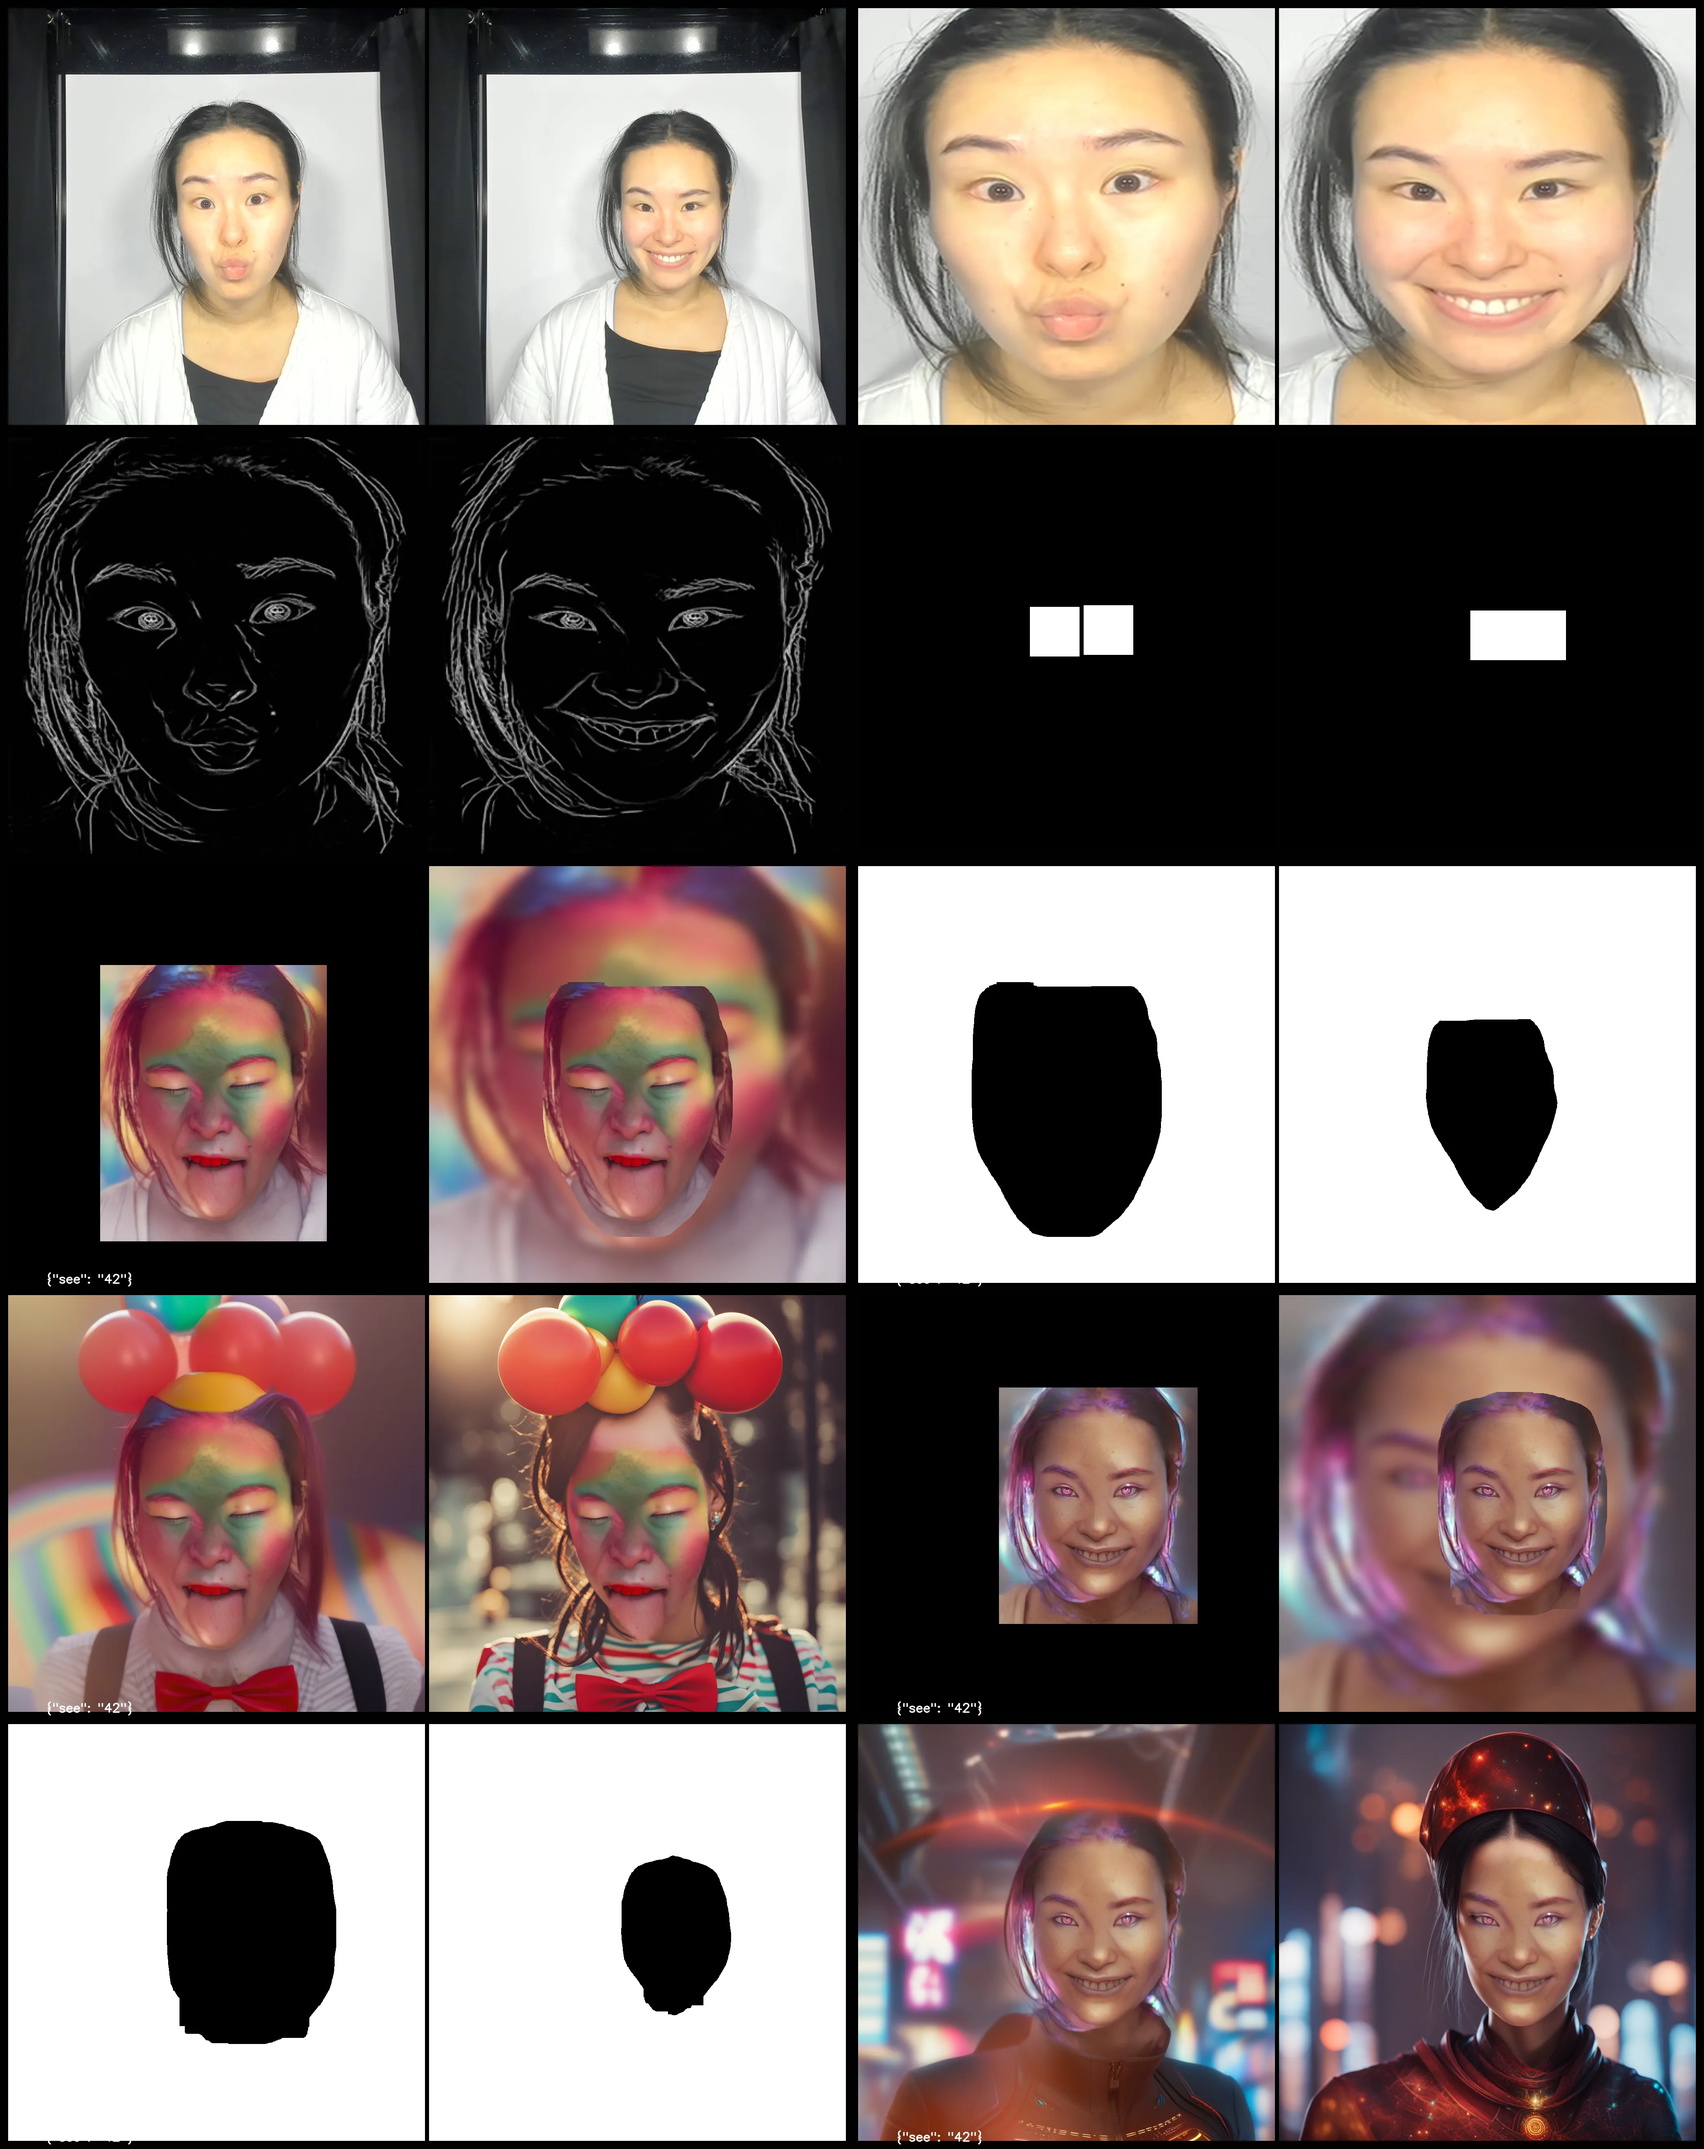
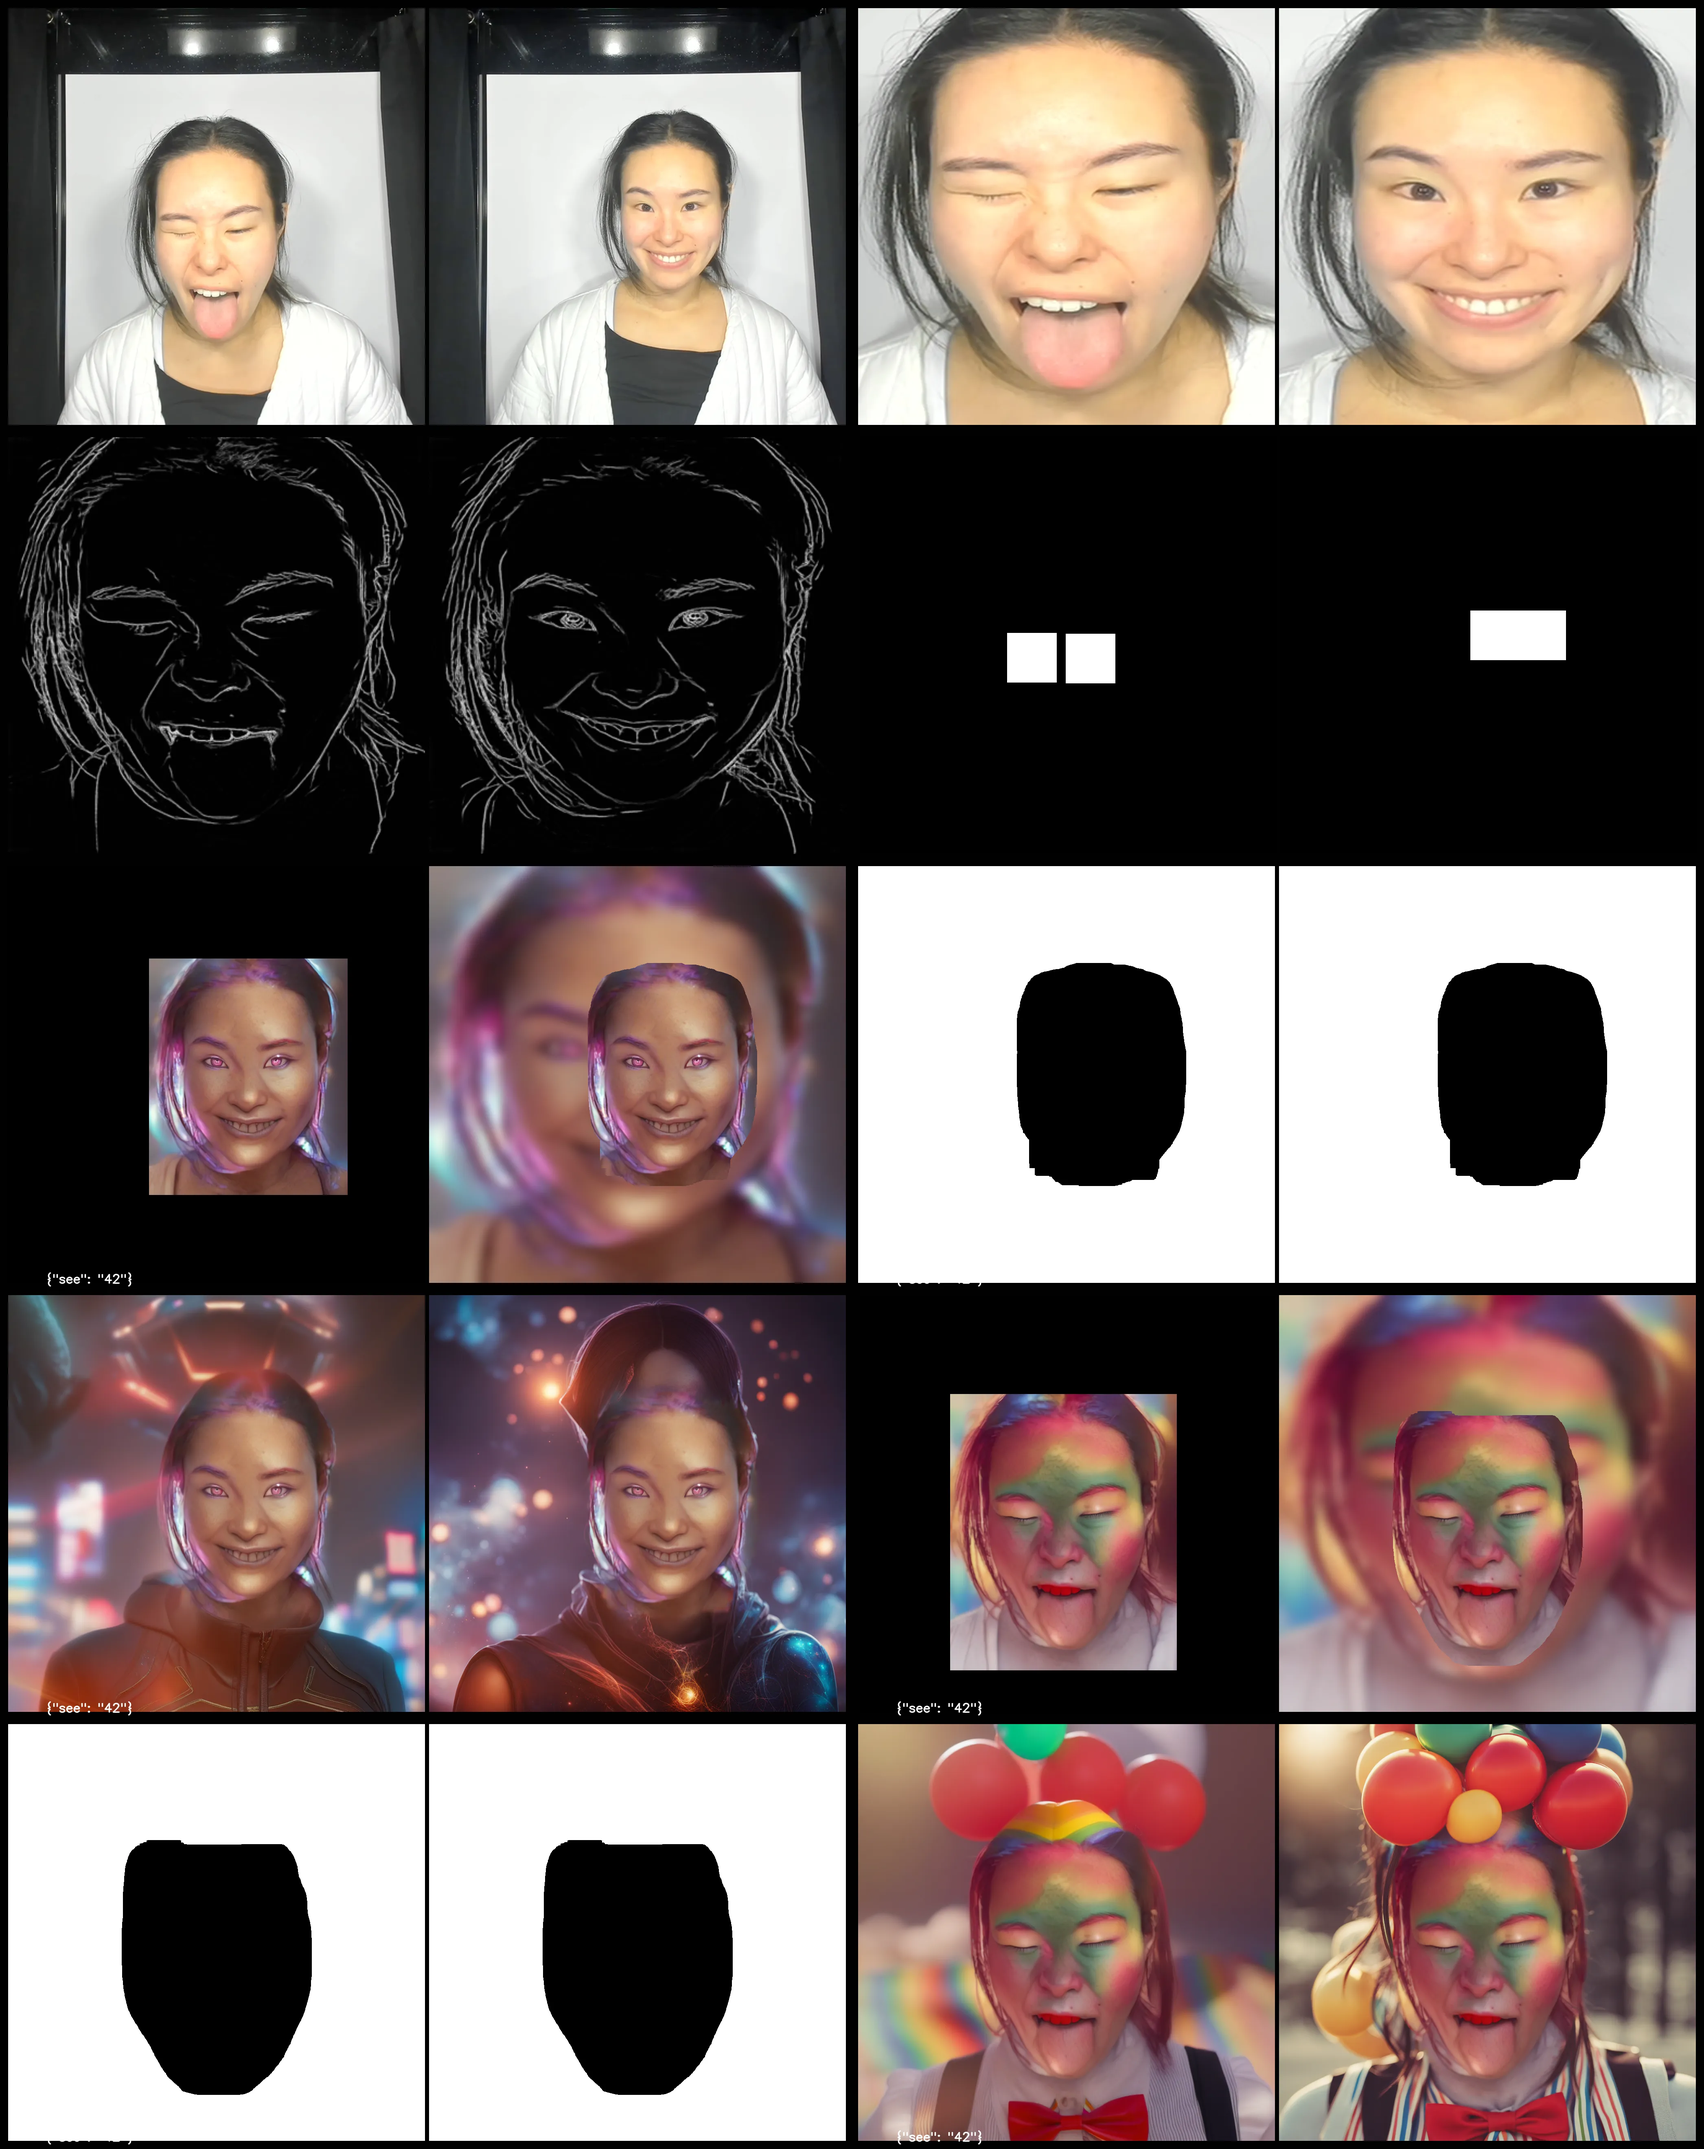
better masks.

diff --git a/one_shot/dreambooth/model.py b/one_shot/dreambooth/model.py
@@ -22,7 +22,7 @@ from one_shot.params import Params, Settings
 from one_shot.prompt import Compels, Prompts
 from one_shot.utils import (
     civitai_path,
-    dilate_mask,
+    erode_mask,
     exclude,
 )
 
@@ -41,7 +41,8 @@ class SharedModels:
 @dataclass
 class ProcessModels:
     pipe: StableDiffusionXLAdapterPipeline
-    refiner: StableDiffusionXLInpaintPipeline
+    face_refiner: StableDiffusionXLAdapterPipeline
+    bg_refiner: StableDiffusionXLInpaintPipeline
     inpainter: StableDiffusionXLInpaintPipeline
     compels: Compels
     face: FaceHelperModels
@@ -85,6 +86,16 @@ class ProcessModels:
         pipe.enable_xformers_memory_efficient_attention()
         cls._load_loras(params, pipe)
 
+        face_refiner = StableDiffusionXLAdapterPipeline.from_pretrained(
+            params.model.refiner,
+            text_encoder_2=pipe.text_encoder_2,
+            vae=pipe.vae,
+            adapter=pipe.adapter,
+            scheduler=pipe.scheduler,
+            **cls.settings.loading_kwargs,
+        ).to(rank)
+        face_refiner.enable_xformers_memory_efficient_attention()
+
         inpainter = StableDiffusionXLInpaintPipeline.from_pretrained(
             params.model.inpainter,
             text_encoder=pipe.text_encoder,
@@ -96,14 +107,14 @@ class ProcessModels:
         inpainter.enable_xformers_memory_efficient_attention()
         cls._load_loras(params, inpainter, key="inpainter")
 
-        refiner = StableDiffusionXLInpaintPipeline.from_pretrained(
+        bg_refiner = StableDiffusionXLInpaintPipeline.from_pretrained(
             params.model.refiner,
             text_encoder_2=pipe.text_encoder_2,
             vae=pipe.vae,
             scheduler=pipe.scheduler,
             **cls.settings.loading_kwargs,
         ).to(rank)
-        refiner.enable_xformers_memory_efficient_attention()
+        bg_refiner.enable_xformers_memory_efficient_attention()
 
         xl_compel = Compel(
             [pipe.tokenizer, pipe.tokenizer_2],
@@ -131,7 +142,8 @@ class ProcessModels:
         )
         return cls(
             pipe=pipe,
-            refiner=refiner,
+            face_refiner=face_refiner,
+            bg_refiner=bg_refiner,
             inpainter=inpainter,
             compels=Compels(
                 xl=xl_compel, refiner=refiner_compel, inpainter=inpainter_compel
@@ -231,11 +243,9 @@ class Model:
                 self.logger.warning("Using face mask")
                 mask = ~face.mask.arr
                 masks.append(to_pil_image(mask, mode="RGB").convert("L"))
-                og_masks.append(
-                    to_pil_image(
-                        dilate_mask(~face.raw_mask.arr, strong=True), mode="RGB"
-                    ).convert("L")
-                )
+
+                og_mask = ~erode_mask(face.mask.arr)
+                og_masks.append(to_pil_image(og_mask, mode="RGB").convert("L"))
             elif not face.is_trivial:
                 self.logger.warning("Using bounds mask")
                 mask = np.full(frame.shape[:2], 255, dtype=np.uint8)

diff --git a/one_shot/utils.py b/one_shot/utils.py
@@ -77,7 +77,6 @@ class Face(FrozenModel):
     box: Box
     eyes: Eyes
     mask: NpBox | None = None
-    raw_mask: NpBox | None = None
 
     @property
     def is_trivial(self) -> bool:
@@ -180,13 +179,16 @@ def grid(images: list[Image.Image] | list[np.ndarray], w: int = 2) -> Image.Imag
     return to_pil_image(grid)
 
 
-def dilate_mask(mask: np.ndarray, strong: bool = True) -> np.ndarray:
-    if strong:
-        size, iterations = (5, 5), 20
-    else:
-        size, iterations = (4, 4), 20
+def dilate_mask(mask: np.ndarray) -> np.ndarray:
+    size, iterations = (5, 5), 20
     kernel = np.ones(size, np.uint8)
-    return cv2.dilate(mask, kernel, iterations=iterations)
+    return cv2.dilate(mask.copy(), kernel, iterations=iterations)
+
+
+def erode_mask(mask: np.ndarray) -> np.ndarray:
+    size, iterations = (2, 2), 3
+    kernel = np.ones(size, np.uint8)
+    return cv2.erode(mask.copy(), kernel, iterations=iterations)
 
 
 @collect

diff --git a/one_shot/face.py b/one_shot/face.py
@@ -251,10 +251,7 @@ class FaceHelper:
                 mask_image = np.where(mask_rbg, one, zero)
 
                 faces[j] = face.copy(
-                    update={
-                        "mask": NpBox(arr=dilate_mask(mask_image)),
-                        "raw_mask": NpBox(arr=mask_image),
-                    }
+                    update={"mask": NpBox(arr=dilate_mask(mask_image))}
                 )
         for i, faces in enumerate(detections):
             for face in faces:
